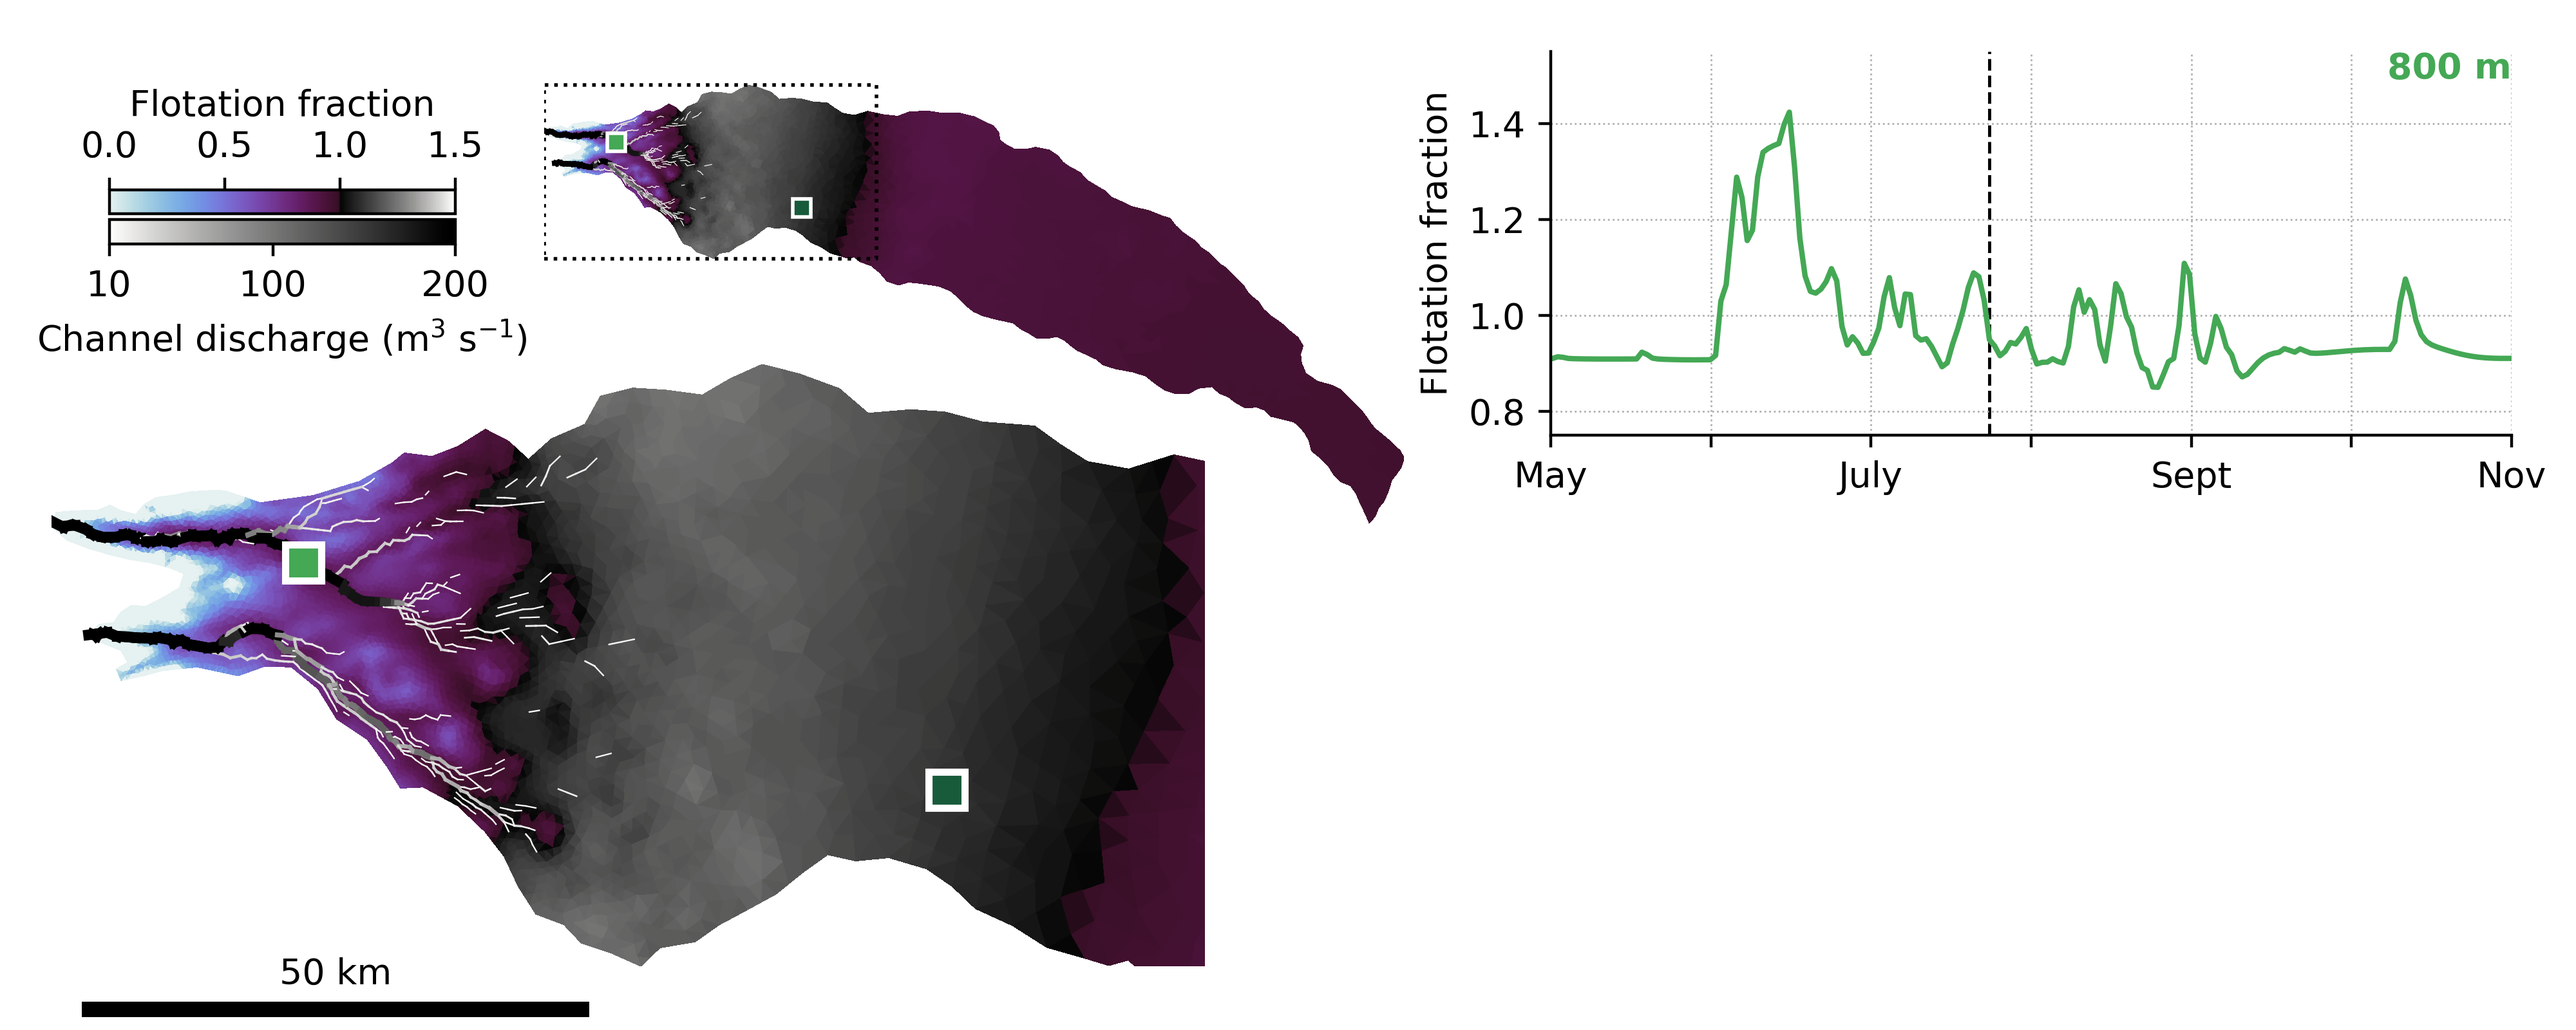
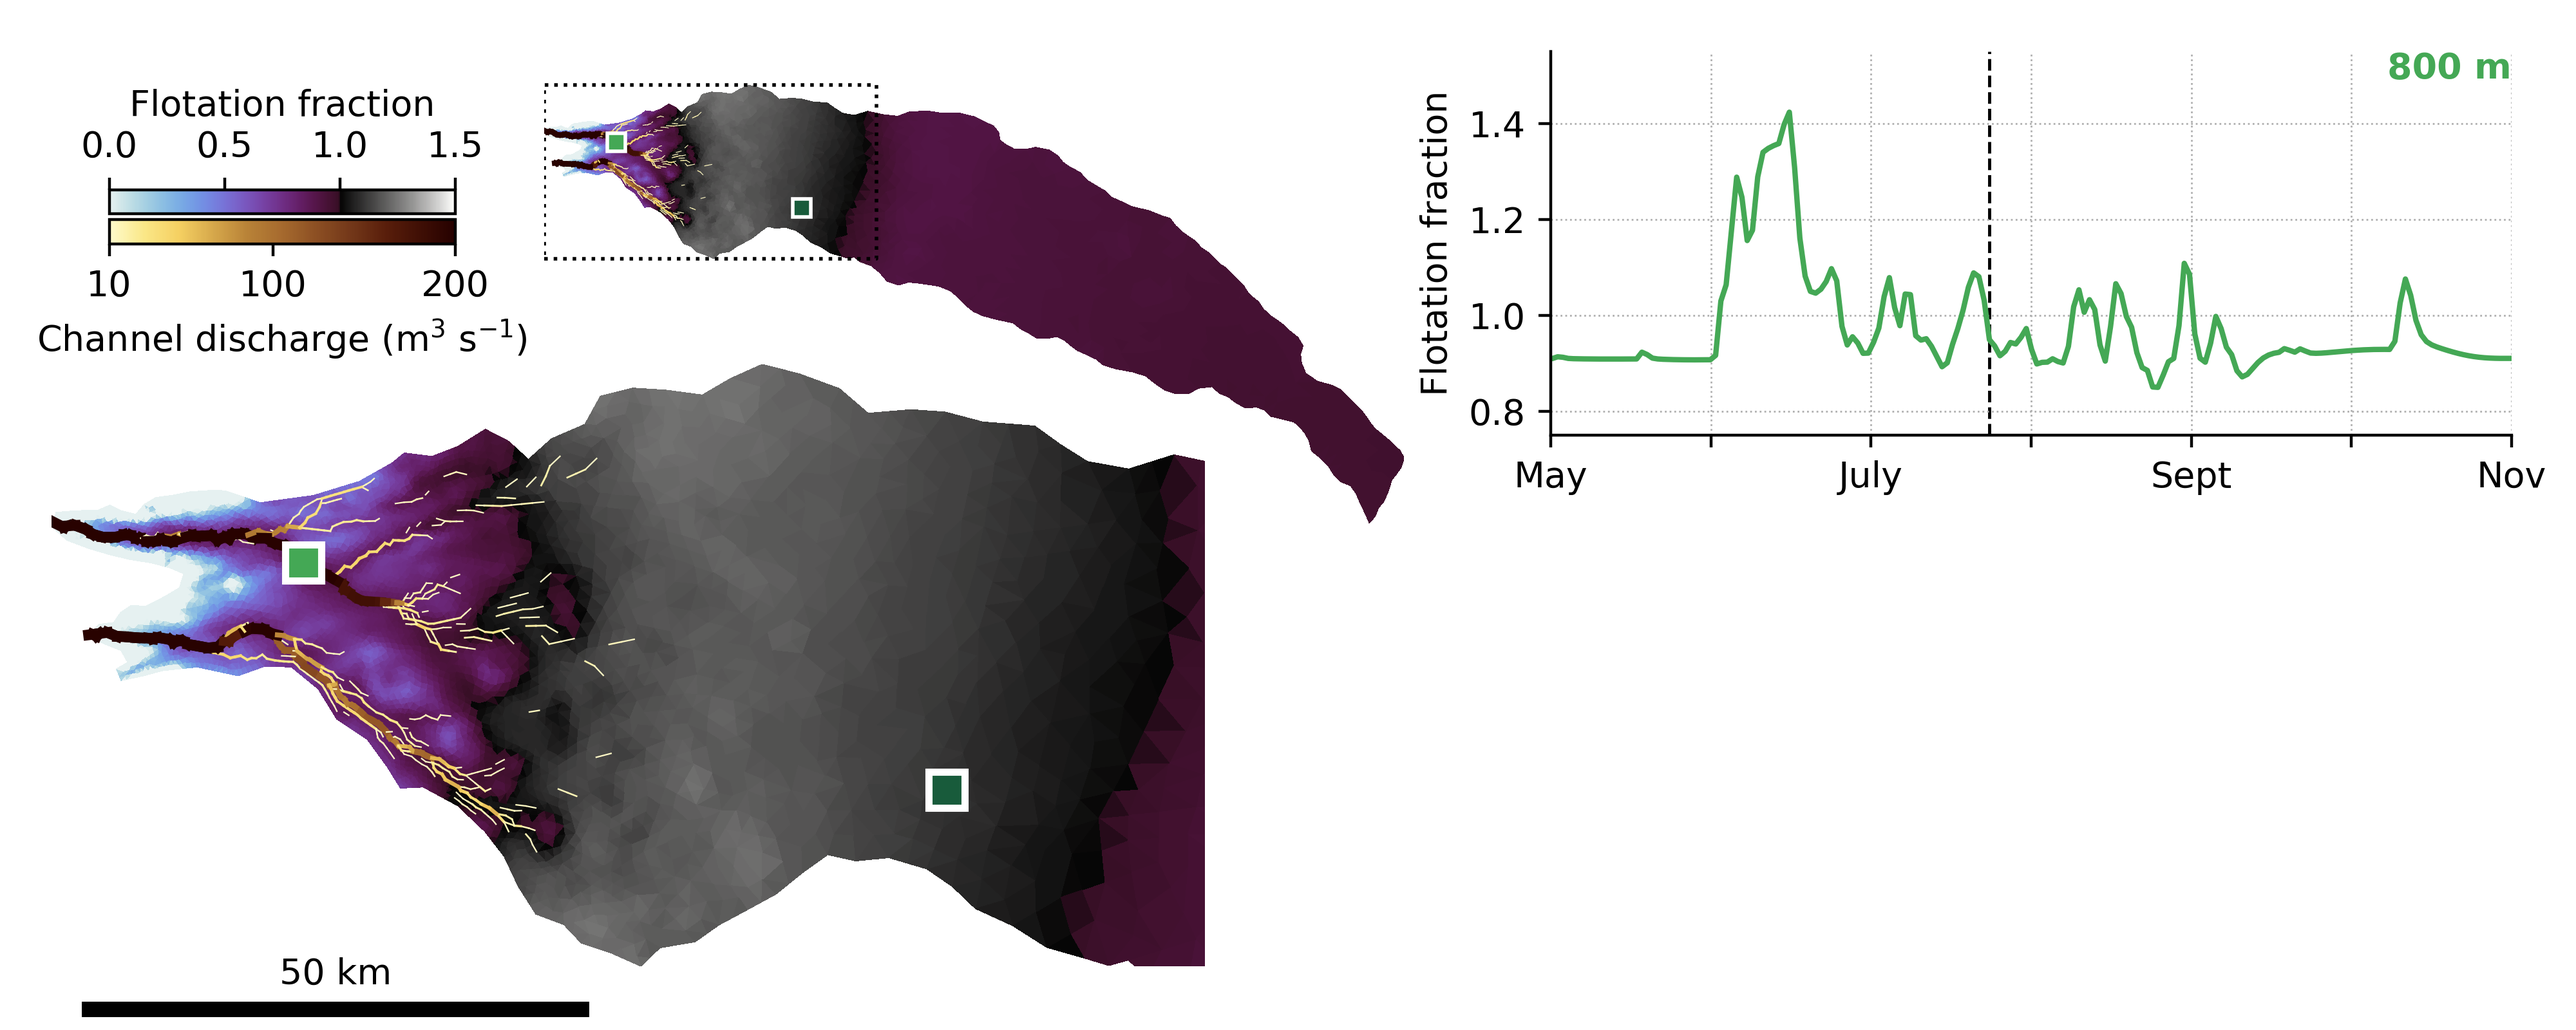
Update IGS figures

diff --git a/experiments/greenland/analysis/plot_ff_timeseries_IGS.py b/experiments/greenland/analysis/plot_ff_timeseries_IGS.py
@@ -8,7 +8,7 @@ import os
 import sys
 
 sys.path.append(os.path.expanduser('~/SFU-code'))
-from palettes.code import tools
+from palettes.code import tools, palettes
 
 import matplotlib
 from matplotlib import pyplot as plt
@@ -133,7 +133,8 @@ for ax in (ax1, ax2):
     cy = np.array([mesh['y'][channel0[channel_mask]], mesh['y'][channel1[channel_mask]]]).T/1e3
 
     Qnorm = lambda x: min(0.99, max(0.01, (x-Qmin)/(Qmax-Qmin)))
-    Qcmap = cmocean.cm.gray_r
+    # Qcmap = cmocean.cm.
+    Qcmap = palettes.get_cmap('BrownYellow')
     for i in range(len(cx)):
         Qscore = Qnorm(np.abs(Q[channel_mask, ix][i]))
         color = Qcmap(Qscore)
